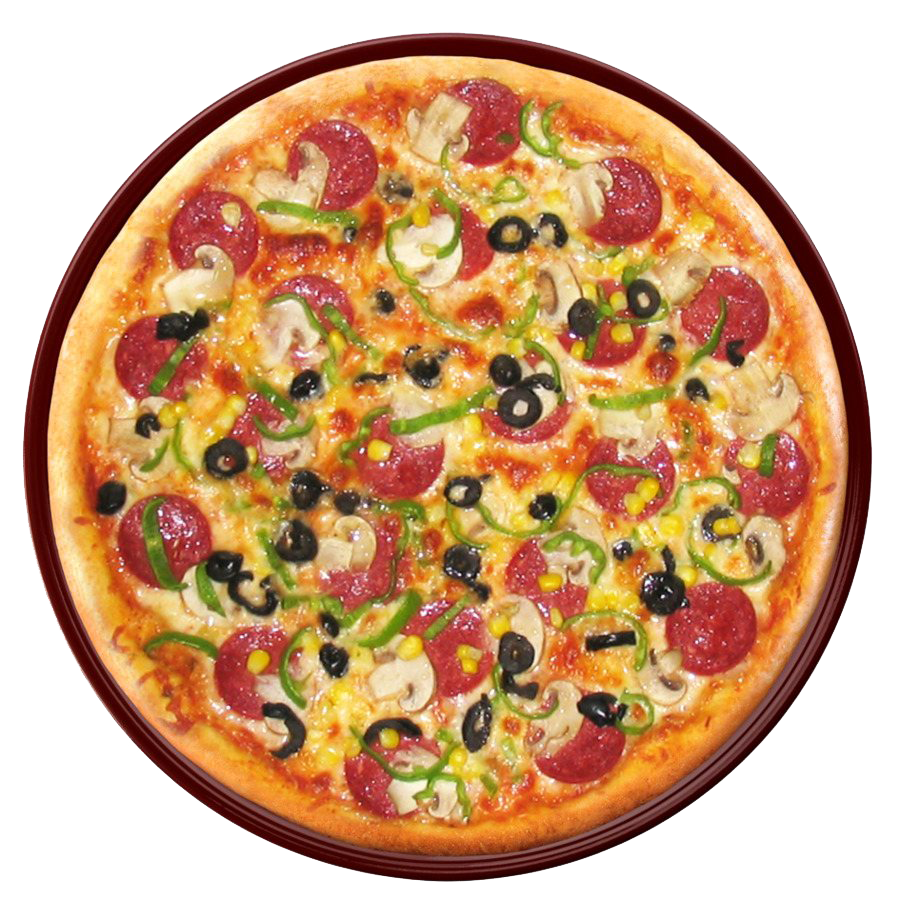
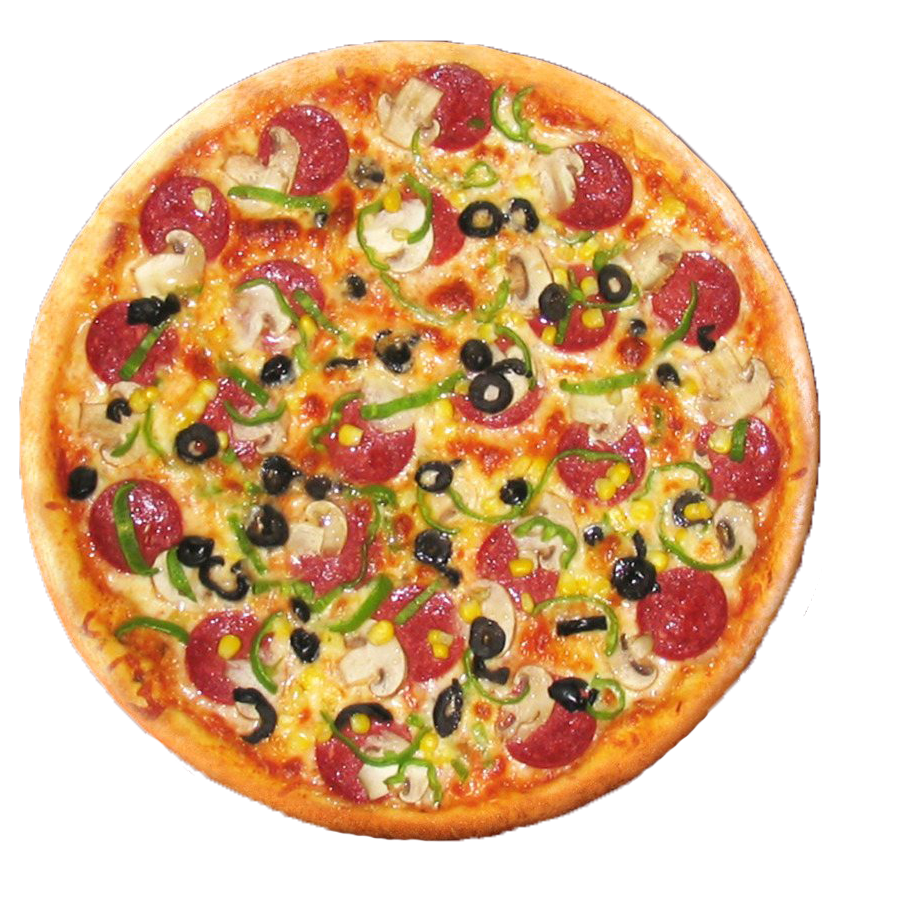
completed product detail page

diff --git a/lib/screens/product_detail_screen.dart b/lib/screens/product_detail_screen.dart
@@ -3,15 +3,20 @@ import 'package:get/get.dart';
 import 'package:google_fonts/google_fonts.dart';
 import 'package:provider/provider.dart';
 import 'package:tomato/constant/customColor.dart';
+import 'package:tomato/controller/homeController.dart';
 import 'package:tomato/controller/productDetailController.dart';
+import 'package:tomato/screens/home.dart';
+import 'package:tomato/screens/orders_screen.dart';
 import 'package:tomato/widgets/custom_widgets.dart';
 
 class ProductDetailScreen extends StatelessWidget {
-  ProductDetailController _productDetailContrState;
+  ProductDetailController _prodDetailContr;
+  HomeController _homeContrstate;
   var _theme;
   @override
   Widget build(BuildContext context) {
-    _productDetailContrState = Provider.of<ProductDetailController>(context);
+    _prodDetailContr = Provider.of<ProductDetailController>(context);
+    _homeContrstate = Provider.of<HomeController>(context);
     _theme = Theme.of(context);
     return Scaffold(
       body: _body(),
@@ -33,20 +38,74 @@ class ProductDetailScreen extends StatelessWidget {
           SizedBox(
             height: 40,
           ),
-          Stack(
-            children: [
-              _productInfo(),
-              Positioned(
-                right: -80,
-                child: Container(
-                  height: 320,
-                  child: Image.asset('assets/foods/pizza.png'),
-                ),
-              ),
-            ],
+          _productInfoWithImg(),
+          SizedBox(
+            height: 40,
           ),
+          _transactionBtn(),
         ],
       ),
+    );
+  }
+
+  Widget _transactionBtn() {
+    return Padding(
+      padding: const EdgeInsets.symmetric(horizontal: 30.0),
+      child: Row(
+        mainAxisAlignment: MainAxisAlignment.spaceBetween,
+        children: [
+          _buyAddToCart(
+            title: "Buy Now",
+            bgColor: CustomColors.darkBrown,
+            onPressed: () {},
+          ),
+          _buyAddToCart(
+              title: "Add To Cart",
+              bgColor: CustomColors.darkRed,
+              onPressed: () async {
+                await _homeContrstate.onBottomNavClick(2);
+                Get.to(
+                  Home(),
+                );
+              }),
+        ],
+      ),
+    );
+  }
+
+  Widget _buyAddToCart({String title, Color bgColor, Function onPressed}) {
+    return MaterialButton(
+      height: 45,
+      minWidth: 168,
+      elevation: 5.0,
+      shape: RoundedRectangleBorder(
+        borderRadius: BorderRadius.circular(15),
+      ),
+      onPressed: onPressed,
+      color: bgColor,
+      child: Text(
+        title,
+        style: GoogleFonts.raleway(
+          color: _theme.cardColor,
+          fontWeight: FontWeight.w600,
+          fontSize: 17,
+        ),
+      ),
+    );
+  }
+
+  Stack _productInfoWithImg() {
+    return Stack(
+      children: [
+        _productInfo(),
+        Positioned(
+          right: -80,
+          child: Container(
+            height: 320,
+            child: Image.asset('assets/foods/polopizza.png'),
+          ),
+        ),
+      ],
     );
   }
 
@@ -85,6 +144,10 @@ class ProductDetailScreen extends StatelessWidget {
             height: 30.0,
           ),
           _productSizes(),
+          SizedBox(
+            height: 15,
+          ),
+          _productQuantity(),
         ],
       ),
     );
@@ -93,50 +156,89 @@ class ProductDetailScreen extends StatelessWidget {
   Widget _productSizes() {
     return Row(
       children: [
-        for (String each in _productDetailContrState.productSizeList)
-          _eachProductSize(
+        for (String each in _prodDetailContr.productSizeList)
+          _eachProductBox(
+            isSelected: _prodDetailContr.currentProductSize ==
+                _prodDetailContr.productSizeList.indexOf(each),
             label: each,
-            onPressed: _productDetailContrState.onProductSizeClick(
-              _productDetailContrState.productSizeList.indexOf(each),
-            ),
+            onPressed: () {
+              _prodDetailContr.onProductSizeClick(
+                _prodDetailContr.productSizeList.indexOf(each),
+              );
+            },
           ),
       ],
     );
   }
 
-  Widget _eachProductSize({
+  Widget _productQuantity() {
+    return Row(
+      children: [
+        _eachProductBox(
+          icon: _prodDetailContr.prodQuantityList[0],
+          onPressed: () {
+            _prodDetailContr.onDecrQuantity();
+          },
+          isSelected: !_prodDetailContr.colorFlag,
+        ),
+        Container(
+          height: 40,
+          width: 38,
+          alignment: Alignment.center,
+          margin: EdgeInsets.only(right: 4),
+          child: Text(
+            _prodDetailContr.currentQuantity.toString(),
+            style: GoogleFonts.robotoSlab(
+              fontSize: 18,
+              fontWeight: FontWeight.w600,
+            ),
+          ),
+        ),
+        _eachProductBox(
+          icon: _prodDetailContr.prodQuantityList[1],
+          onPressed: () {
+            _prodDetailContr.onIncrQuantity();
+          },
+          isSelected: _prodDetailContr.colorFlag,
+        ),
+      ],
+    );
+  }
+
+  Widget _eachProductBox({
     IconData icon,
     String label,
     Function onPressed,
+    bool isSelected = false,
   }) {
     return GestureDetector(
-      onTap: () {
-        onPressed();
-      },
+      onTap: onPressed,
       child: Container(
         height: 40,
-        width: 40,
+        width: 38,
         alignment: Alignment.center,
         margin: EdgeInsets.only(right: 4),
         decoration: BoxDecoration(
           borderRadius: BorderRadius.circular(10),
-          color: _productDetailContrState.productSizeList[
-                      _productDetailContrState.currentProductSize] ==
-                  label
-              ? CustomColors.lightRed
-              : _theme.cardColor,
+          color: isSelected ? CustomColors.lightRed : _theme.cardColor,
         ),
         child: icon != null
-            ? Icon(icon)
+            ? Icon(
+                icon,
+                size: 18,
+                color: isSelected
+                    ? _theme.cardColor
+                    : CustomColors.unselectedColor,
+              )
             : Text(
                 label,
                 style: GoogleFonts.raleway(
-                    fontSize: 15,
-                    fontWeight: FontWeight.w600,
-                    color:
-                        // _restaurantControllerState.categoryKey == label
-                        //     ? Colors.white:
-                        Colors.white),
+                  fontSize: 15,
+                  fontWeight: FontWeight.w600,
+                  color: isSelected
+                      ? _theme.cardColor
+                      : CustomColors.unselectedColor,
+                ),
               ),
       ),
     );
@@ -151,7 +253,7 @@ class ProductDetailScreen extends StatelessWidget {
       children: [
         Text(
           key,
-          style: GoogleFonts.raleway(
+          style: GoogleFonts.robotoSlab(
             fontWeight: FontWeight.w500,
             fontSize: 15,
             color: Colors.black87.withOpacity(0.7),
@@ -162,7 +264,7 @@ class ProductDetailScreen extends StatelessWidget {
         ),
         Text(
           value,
-          style: GoogleFonts.raleway(
+          style: GoogleFonts.robotoSlab(
             fontSize: 17,
             fontWeight: FontWeight.w600,
           ),
@@ -174,10 +276,8 @@ class ProductDetailScreen extends StatelessWidget {
   Widget _price(int price) {
     return Text(
       "Rs.${price}",
-      style: GoogleFonts.b612(
-        fontWeight: FontWeight.w800,
-        fontSize: 24,
-      ),
+      style: GoogleFonts.robotoSlab(
+          fontWeight: FontWeight.w800, fontSize: 24, letterSpacing: 0.5),
     );
   }
 
@@ -207,9 +307,18 @@ class ProductDetailScreen extends StatelessWidget {
           CustomIcon(
             paddingLeft: 9,
             icon: Icons.arrow_back_ios,
+            onPressed: () {
+              Get.back();
+            },
           ),
           _title(),
           CustomIcon(
+            onPressed: () async {
+              await _homeContrstate.onBottomNavClick(2);
+              Get.to(
+                Home(),
+              );
+            },
             icon: Icons.shopping_bag_outlined,
           ),
         ],

diff --git a/lib/screens/vender_menu.dart b/lib/screens/vender_menu.dart
@@ -57,7 +57,7 @@ class VenderMenu extends StatelessWidget {
                     favFood: "Mixed Pizza",
                     venderName: "Pepperoni Pizza",
                     rating: 4.5,
-                    assetUrl: 'assets/foods/pizza.png',
+                    assetUrl: 'assets/foods/polopizza.png',
                     price: 650,
                     productPadding: 12,
                   ),
@@ -118,13 +118,17 @@ class VenderMenu extends StatelessWidget {
         mainAxisAlignment: MainAxisAlignment.spaceBetween,
         children: [
           _title(),
-          Icon(
-            Icons.arrow_back_ios,
-            size: 30,
-            color: CustomColors.lightGrey,
-          ),
+          _backBtn(),
         ],
       ),
+    );
+  }
+
+  Icon _backBtn() {
+    return Icon(
+      Icons.arrow_back_ios,
+      size: 30,
+      color: CustomColors.lightGrey,
     );
   }
 

diff --git a/lib/controller/productDetailController.dart b/lib/controller/productDetailController.dart
@@ -1,12 +1,34 @@
 import 'package:flutter/cupertino.dart';
+import 'package:flutter/material.dart';
 
 class ProductDetailController extends ChangeNotifier {
   int currentProductSize = 0;
+  int currentQuantity = 1;
+  bool colorFlag = true;
   List productSizeList = [
     "S",
     "M",
     "L",
   ];
+
+  List prodQuantityList = [
+    Icons.remove,
+    Icons.add,
+  ];
+
+  onIncrQuantity() {
+    currentQuantity++;
+    colorFlag = true;
+    notifyListeners();
+  }
+
+  onDecrQuantity() {
+    if (currentQuantity > 1) {
+      currentQuantity--;
+      colorFlag = false;
+      notifyListeners();
+    }
+  }
 
   onProductSizeClick(int index) {
     currentProductSize = index;

diff --git a/lib/constant/customColor.dart b/lib/constant/customColor.dart
@@ -10,4 +10,5 @@ class CustomColors {
   static Color yellow = Color(0xffEC983B);
   static Color backgroundColor = Color(0xff717E8A);
   static Color lightGrey = Colors.grey[500];
+  static Color unselectedColor = Colors.black;
 }

diff --git a/lib/controller/homeController.dart b/lib/controller/homeController.dart
@@ -40,4 +40,6 @@ class HomeController extends ChangeNotifier {
     bottomNavIndex = index;
     notifyListeners();
   }
+
+ 
 }
